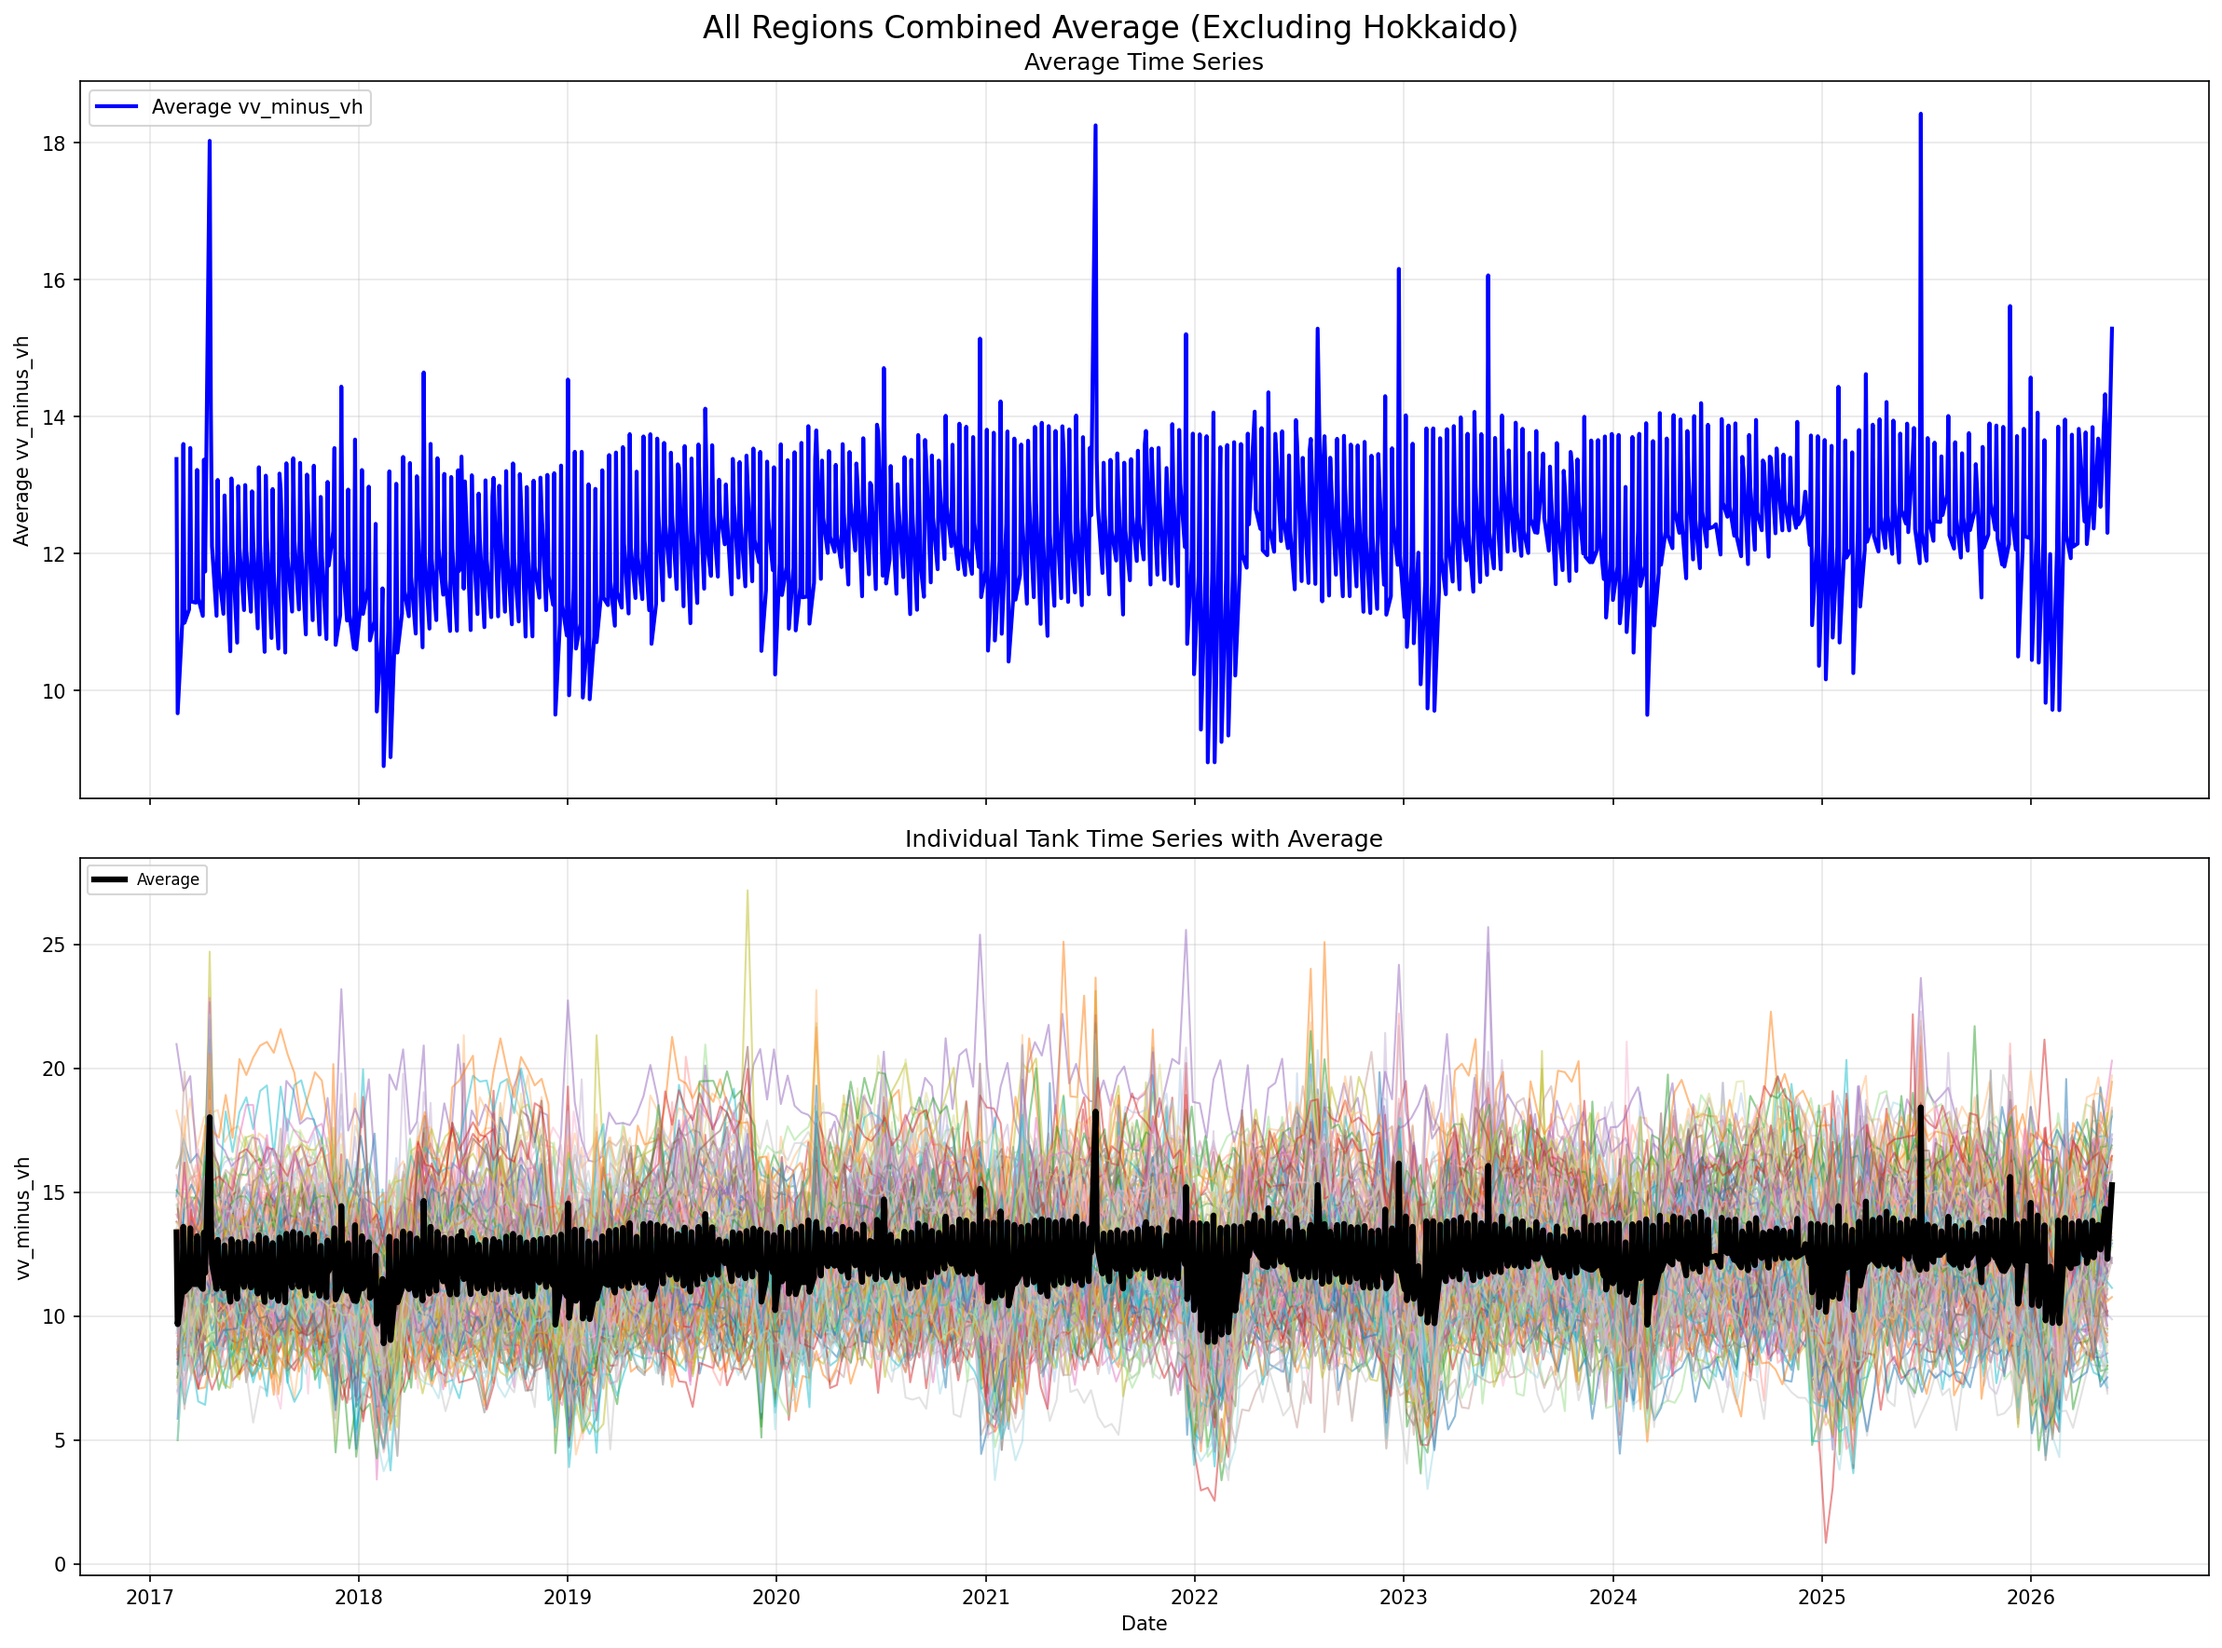
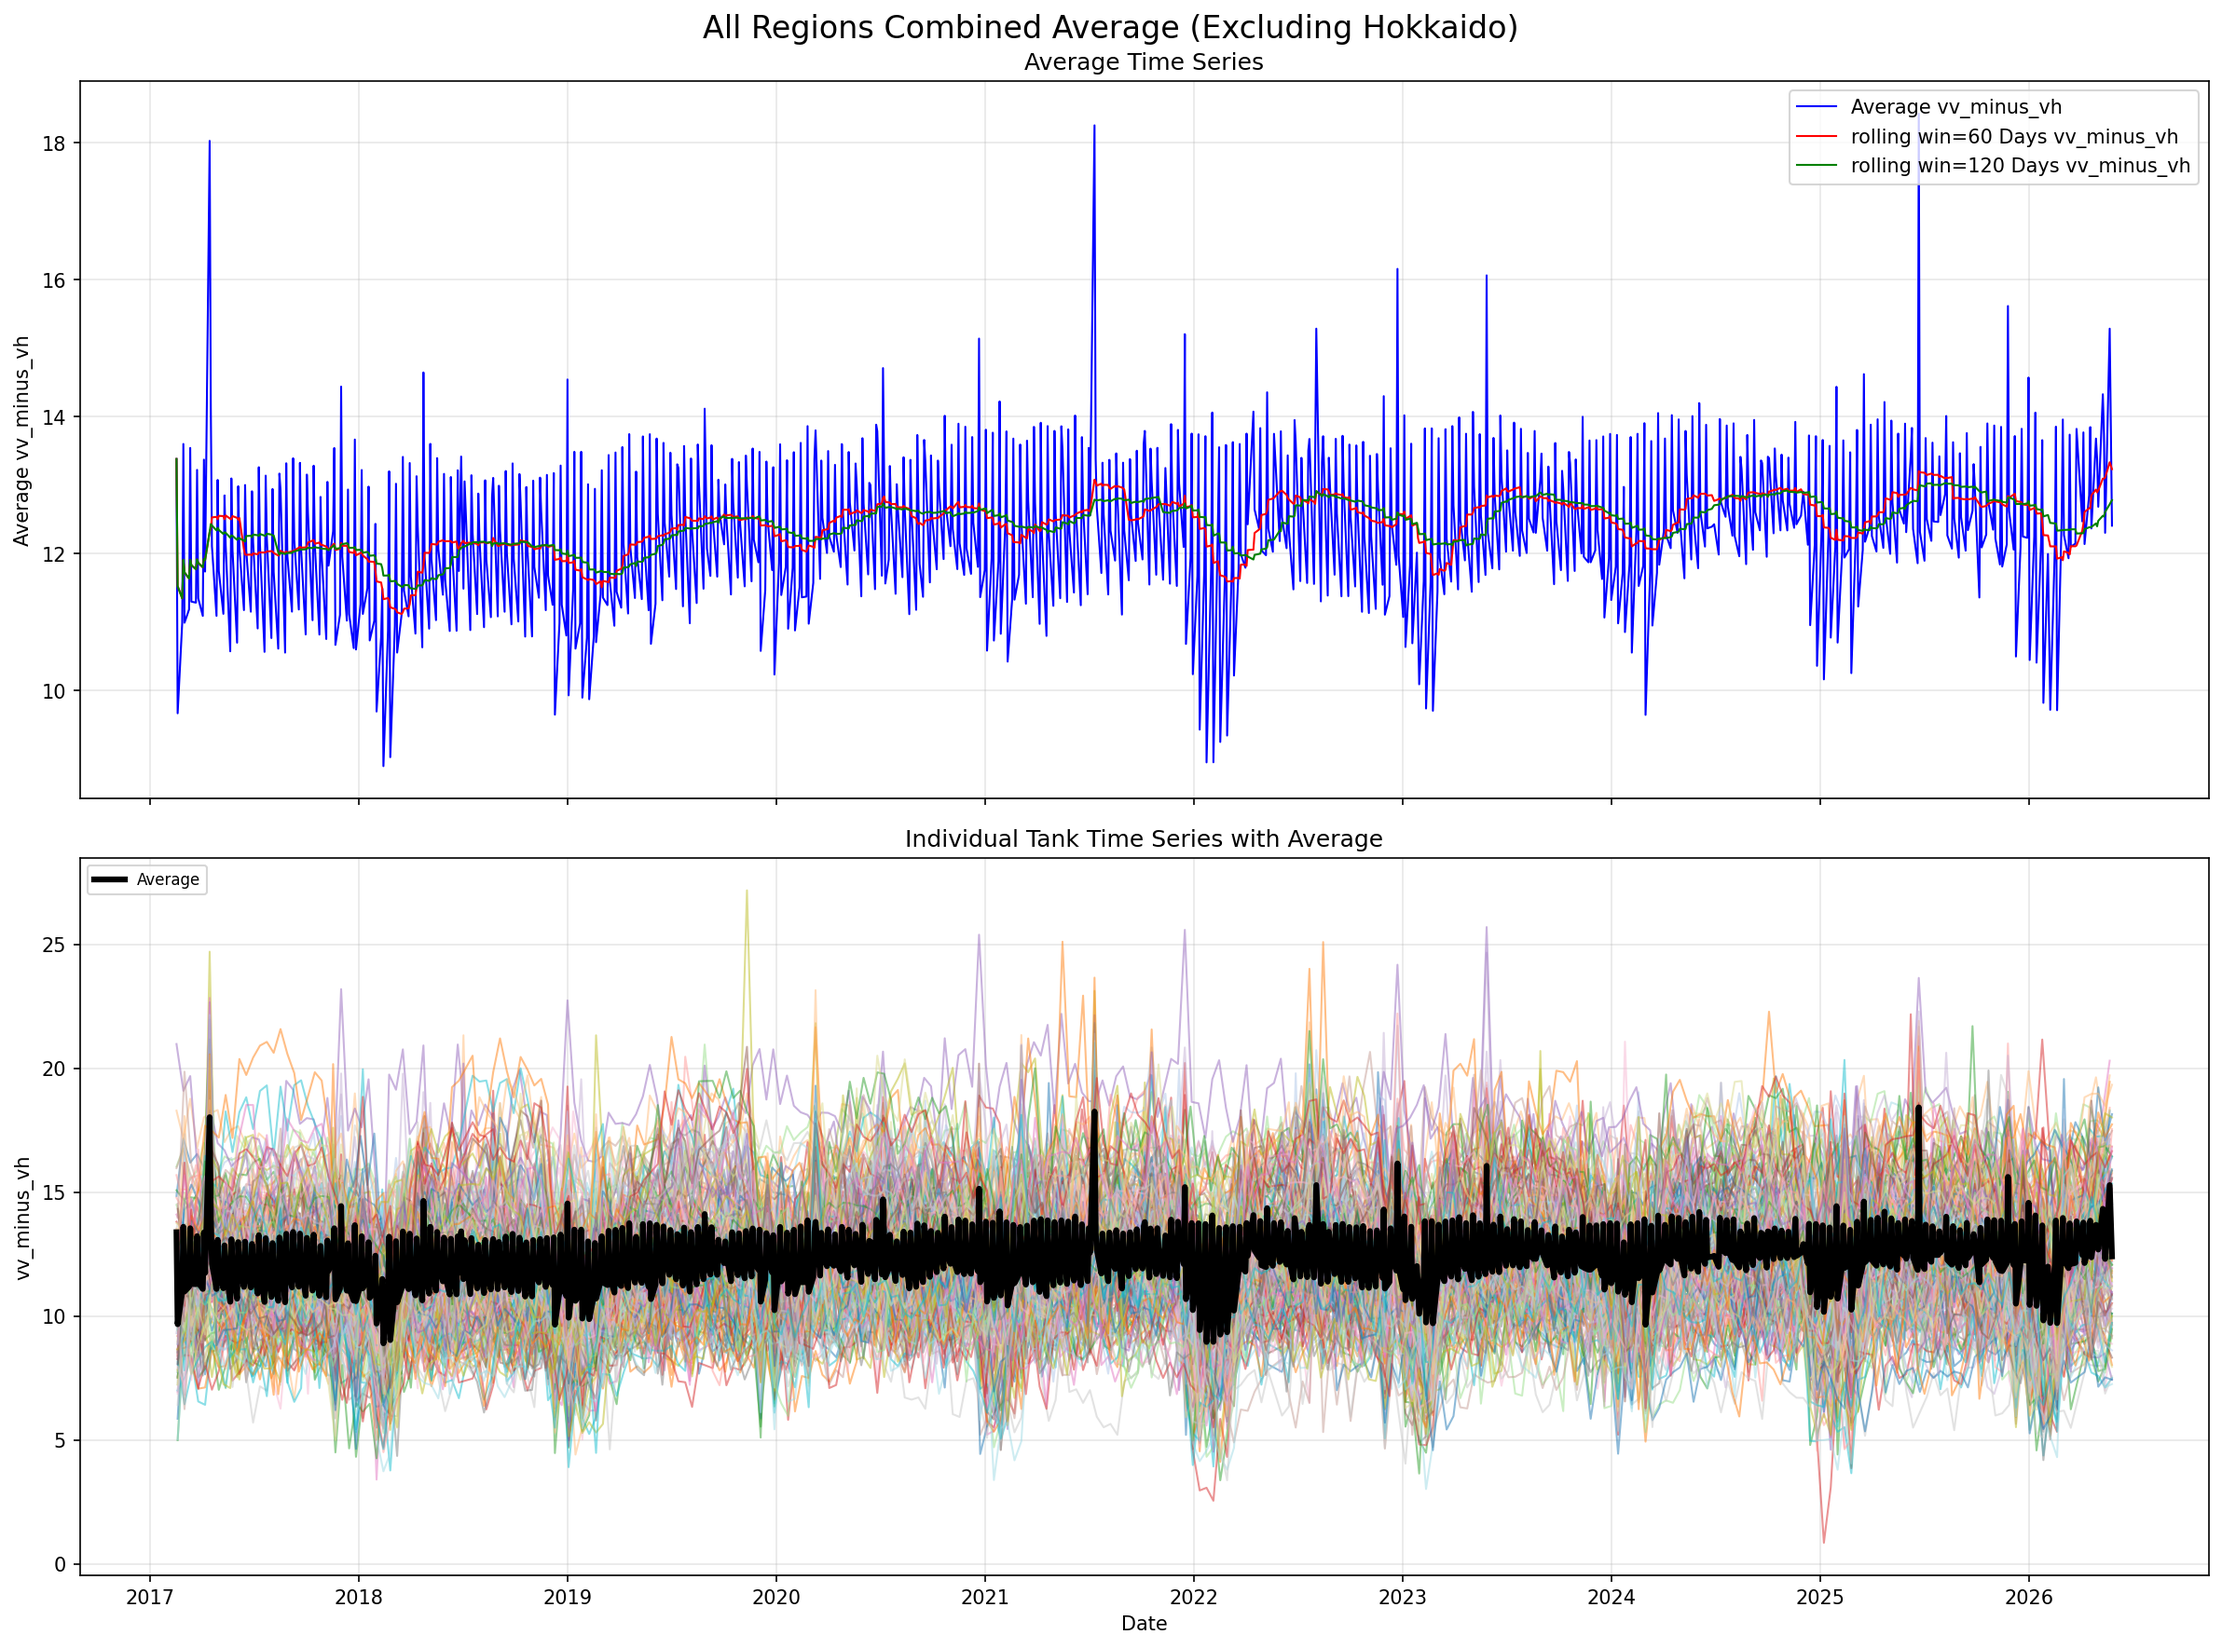
mod: 移動平均プロットを日数ベースに変更

diff --git a/src/plot_tanks.py b/src/plot_tanks.py
@@ -139,6 +139,8 @@ def plot_all_tanks(df, indicator, title, output_path=None, remove_outliers=False
         if remove_outliers and len(tank_data) > 4:  # IQRには最低4点必要
             tank_data = remove_outliers_iqr(tank_data, indicator)
         ax.plot(tank_data['date'], tank_data[indicator], 'b-', linewidth=1, alpha=0.7)
+        ax.plot(tank_data['date'], tank_data[indicator].rolling(window=5, center=False, min_periods=1).mean(), 'r-', linewidth=1, alpha=0.7, label=f'rolling win=5 {indicator}')
+        ax.plot(tank_data['date'], tank_data[indicator].rolling(window=10, center=False, min_periods=1).mean(), 'g-', linewidth=1, alpha=0.7, label=f'rolling win=10 {indicator}')
 
         change_points = tank_data[tank_data['is_change_point']]
         if not change_points.empty:
@@ -178,9 +180,19 @@ def plot_region_average(df, region, indicator, output_path=None, remove_outliers
 
     if remove_outliers and len(daily_avg) > 4:
         daily_avg = remove_outliers_iqr(daily_avg, indicator)
-    ax1.plot(daily_avg['date'], daily_avg[indicator], 'b-', linewidth=2, label=f'Average {indicator}')
-    ax1.plot(daily_avg['date'], daily_avg[indicator].rolling(window=5, center=False, min_periods=1).mean(), 'r-', linewidth=1, label=f'rolling win=5 {indicator}')
-    ax1.plot(daily_avg['date'], daily_avg[indicator].rolling(window=10, center=False, min_periods=1).mean(), 'g-', linewidth=1, label=f'rolling win=10 {indicator}')
+    # ax1.plot(daily_avg['date'], daily_avg[indicator], 'b-', linewidth=2, label=f'Average {indicator}')
+    # ax1.plot(daily_avg['date'], daily_avg[indicator].rolling(window=5, center=False, min_periods=1).mean(), 'r-', linewidth=1, label=f'rolling win=5 {indicator}')
+    # ax1.plot(daily_avg['date'], daily_avg[indicator].rolling(window=10, center=False, min_periods=1).mean(), 'g-', linewidth=1, label=f'rolling win=10 {indicator}')
+
+    # 💡 移動平均を正しく計算するために、一時的に日付をインデックスに設定する
+    rolling_df = daily_avg.set_index('date').sort_index()
+
+    ax1.plot(daily_avg['date'], daily_avg[indicator], 'b-', linewidth=1, label=f'Average {indicator}')
+    
+    # 💡 「行数」ではなく「60D（60日間）」「120D（120日間）」という時間枠でローリング平均をかける
+    ax1.plot(daily_avg['date'], rolling_df[indicator].rolling(window='60D', min_periods=1).mean().values, 'r-', linewidth=1, label=f'rolling win=60 Days {indicator}')
+    ax1.plot(daily_avg['date'], rolling_df[indicator].rolling(window='120D', min_periods=1).mean().values, 'g-', linewidth=1, label=f'rolling win=120 Days {indicator}')
+
     change_points = daily_avg[daily_avg['is_change_point']]
     if not change_points.empty:
         ax1.scatter(change_points['date'], change_points[indicator], color='red', s=50, zorder=5, label='Change Point Detected')
@@ -260,7 +272,19 @@ def plot_combined_average(df, indicator, title, output_path=None, remove_outlier
 
     if remove_outliers and len(daily_avg) > 4:
         daily_avg = remove_outliers_iqr(daily_avg, indicator)
-    ax1.plot(daily_avg['date'], daily_avg[indicator], 'b-', linewidth=2, label=f'Average {indicator}')
+    # ax1.plot(daily_avg['date'], daily_avg[indicator], 'b-', linewidth=2, label=f'Average {indicator}')
+    # ax1.plot(daily_avg['date'], daily_avg[indicator].rolling(window=5, center=False, min_periods=1).mean(), 'r-', linewidth=1, label=f'rolling win=5 {indicator}')
+    # ax1.plot(daily_avg['date'], daily_avg[indicator].rolling(window=10, center=False, min_periods=1).mean(), 'g-', linewidth=1, label=f'rolling win=10 {indicator}')
+
+    # 💡 移動平均を正しく計算するために、一時的に日付をインデックスに設定する
+    rolling_df = daily_avg.set_index('date').sort_index()
+
+    ax1.plot(daily_avg['date'], daily_avg[indicator], 'b-', linewidth=1, label=f'Average {indicator}')
+    
+    # 💡 「行数」ではなく「60D（60日間）」「120D（120日間）」という時間枠でローリング平均をかける
+    ax1.plot(daily_avg['date'], rolling_df[indicator].rolling(window='60D', min_periods=1).mean().values, 'r-', linewidth=1, label=f'rolling win=60 Days {indicator}')
+    ax1.plot(daily_avg['date'], rolling_df[indicator].rolling(window='120D', min_periods=1).mean().values, 'g-', linewidth=1, label=f'rolling win=120 Days {indicator}')
+
     change_points = daily_avg[daily_avg['is_change_point']]
     if not change_points.empty:
         ax1.scatter(change_points['date'], change_points[indicator], color='red', s=50, zorder=5, label='Change Point')
